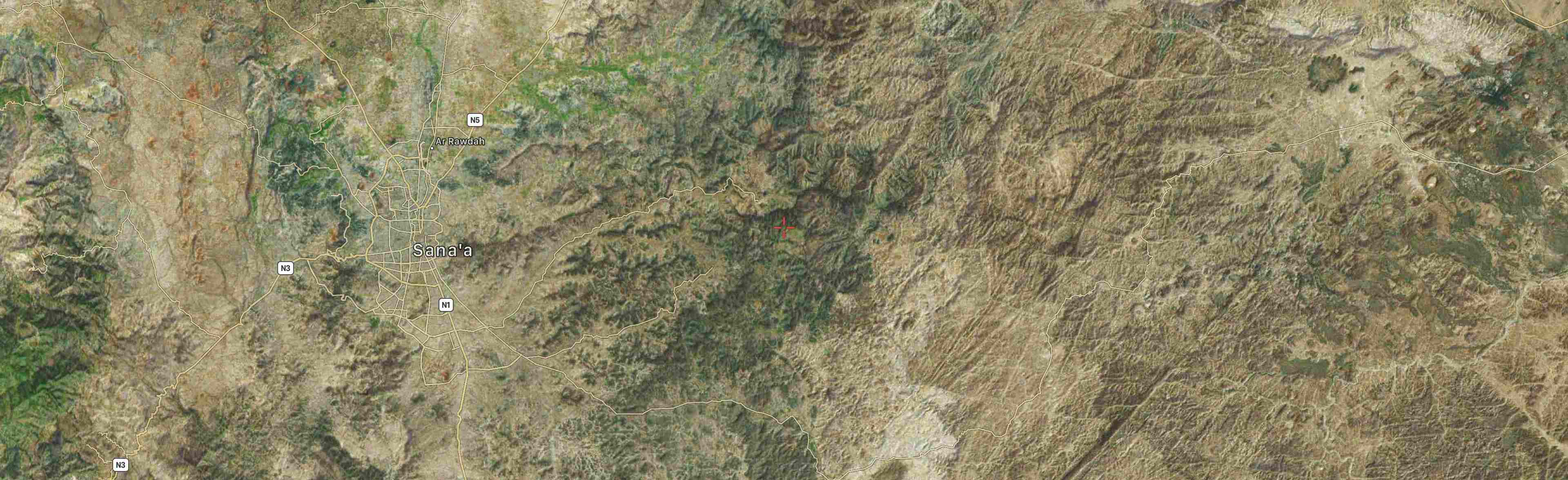
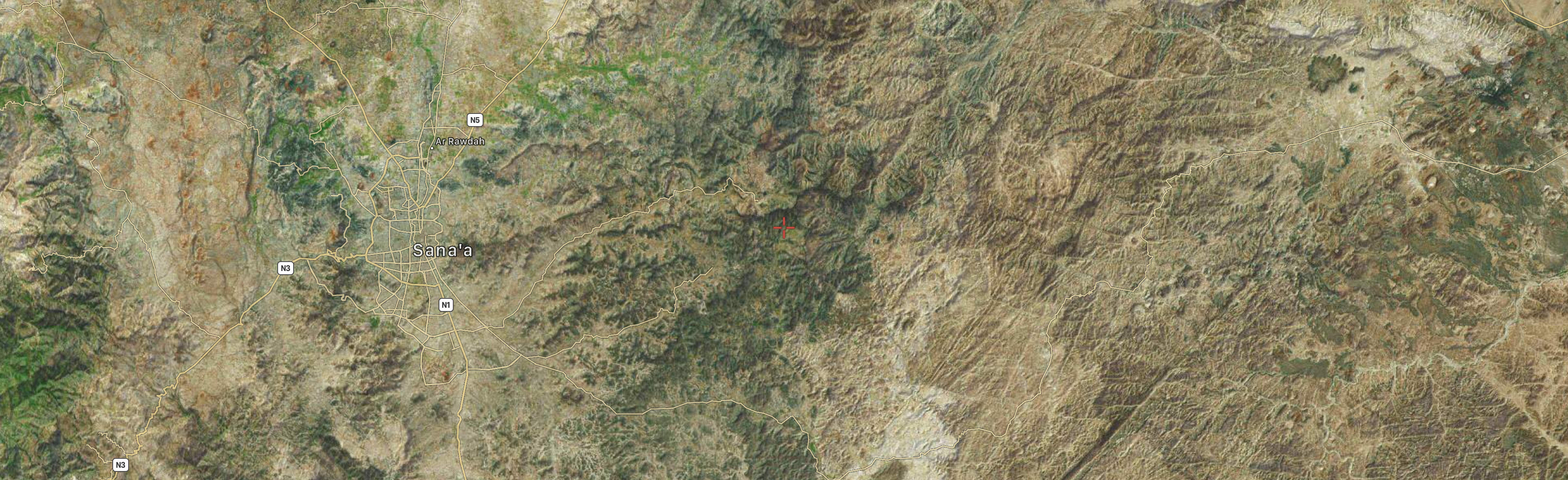
changes index image

diff --git a/index_en.md b/index_en.md
@@ -3,7 +3,7 @@ layout: homepage.html
 title: Yemeni Archive
 date: 2017-07-01T00:05:18.055Z
 desc: Curating visual documentation for justice and human rights
-image: /assets/about/yemen03.png
+image: /assets/about/yemen03.jpg
 ---
 
 The **Yemeni Archive** is a Yemeni-led and initiated collective of human rights activists dedicated to curating visual documentation relating to human rights violations and other crimes committed by all sides during the conflict in Yemen with the goal of creating an evidence-based tool for reporting, advocacy and accountability purposes.

diff --git a/index_ar.md b/index_ar.md
@@ -3,7 +3,7 @@ layout: homepage.html
 title: الأرشيف اليمني
 date: {}
 desc: صون الوثائق البصرية للعدالة وحقوق الإنسان
-image: /assets/about/yemen03.png
+image: /assets/about/yemen03.jpg
 published: true
 ---
 
